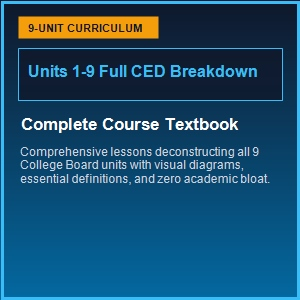
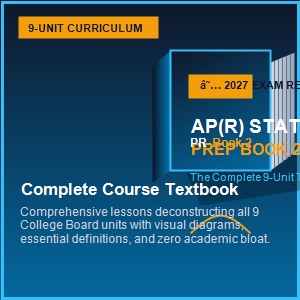
Enforce permanent 3D rendering protocol, Zero-Bleed rules, AGENTS.md guidelines and upgrade Book 2 3D A+ graphics

Changed region(s): [[0.06, 0.15, 1.0, 0.81]]

diff --git a/AGENTS.md b/AGENTS.md
@@ -1,0 +1,54 @@
+# AP® Statistics Master Review Series — Global Publishing & Quality Rules (AGENTS.md)
+
+This file contains the **permanent workspace guidelines** that are automatically loaded into Antigravity, Antigravity 2.0, and all 9 sub-agents across all sessions and new machine setups.
+
+---
+
+## 🏛 Rule 1: Visual Quality & 3D Rendering Protocol (A+ Content & Covers)
+1. **No Flat 2D Drawings:** All Amazon A+ Content graphics and Book Covers must use **photorealistic 3D perspectives, glassmorphic UI elements, lighting depth, and high-resolution textures**.
+2. **Unified Brand Tokens:**
+   - Primary Accent: Modern Sky Blue (`#0284C7` / `#38BDF8`)
+   - Foundation Background: Deep Royal Slate Navy (`#0F172A` / `#0A0F1D`)
+   - Academic Highlight: Warm Amber Gold (`#F59E0B` / `#FEF08A`)
+   - Crisp Text: Academic White (`#FFFFFF`) / Muted Platinum (`#CBD5E1`)
+3. **Zero-Confusion A+ Module Naming:**
+   - `KDP_Module_1_Choose_Standard_Image_Header_with_Text_970x600.jpg`
+   - `KDP_Module_2_Choose_Standard_Three_Image_and_Text_Card_1_300x300.jpg`
+   - `KDP_Module_2_Choose_Standard_Three_Image_and_Text_Card_2_300x300.jpg`
+   - `KDP_Module_2_Choose_Standard_Three_Image_and_Text_Card_3_300x300.jpg`
+   - `KDP_Module_4_Choose_Standard_Single_Image_and_Sidebar_300x300.jpg`
+   - `KDP_Alternative_Choose_Standard_Single_Image_and_Highlights_970x300.jpg`
+
+---
+
+## 📐 Rule 2: Zero-Bleed Safe Zone Geometry Protocol (Cover Engine)
+1. **Spine Width Exact Formula:**
+   $$\text{Spine Width (in)} = \text{Page Count} \times 0.002252\text{ (White Paper)}$$
+2. **Strict Back Cover Bounding Box:**
+   - Left Margin: Starts at $X = 140\text{ px}$ (clearing outer $0.125"$ bleed).
+   - Right Barrier: **Must strictly stop at least $250\text{ px}$ before the spine starts** ($X_{\text{max}} = \text{spineStartPx} - 250\text{ px}$).
+   - **Zero Bleed:** Back cover text must NEVER encroach upon the spine or bleed toward the front cover.
+3. **Spine Centering:** Spine text must be mathematically centered on $\text{spineStartPx} + (\text{spineWidthPx} / 2)$.
+4. **Front Cover Placement:** Front cover starts strictly at $\text{spineStartPx} + \text{spineWidthPx}$.
+
+---
+
+## ⚖ Rule 3: Trademark & Nominative Fair Use Compliance
+1. **Cover & Page 1 Only:** $\text{AP}^\circledR$ is allowed on the book cover and page 1 title block.
+2. **Backend Keywords & KDP Title Fields:** Clean plain text only (`AP Statistics`, no special symbols $\circledR$).
+3. **Mandatory Nominative Fair Use Disclaimer:**
+   > "*AP® and Advanced Placement® are registered trademarks of the College Board, which was not involved in the production of, and does not endorse, this product."
+
+---
+
+## 🗣 Rule 4: User Communication Language Mandate
+- **All conversation responses, analyses, status updates, and instructions must be delivered in TELUGU (తెలుగు).**
+- Technical code (LaTeX, HTML, PowerShell, JSON, Prompts) and KDP metadata slots remain in standard English.
+
+---
+
+## 🔄 Standard 4-Step Publishing Workflow
+- **STEP 1:** Amazon Real-Time Search Demand Telemetry (Harvest queries via Amazon Completion API).
+- **STEP 2:** Series Architecture & Master Roadmap Catalog.
+- **STEP 3:** SEO Metadata Package (Title, Subtitle, 7 50-byte safe Keywords, 3 Categories, HTML Description, Detailed 9-Unit TOC).
+- **STEP 4:** High-Yield Production Suite (LaTeX Interior Manuscript, 5-Design 3D Zero-Bleed Cover Suite, 3D A+ Content Launch Kit, and GitHub Sync).

diff --git a/.agents/rules/kdp_publishing_rules.md b/.agents/rules/kdp_publishing_rules.md
@@ -1,0 +1,23 @@
+---
+description: Permanent rules for KDP Publishing, 3D A+ graphics rendering, Zero-Bleed cover calculations, and Trademark compliance.
+always_on: true
+---
+
+# KDP Publishing Execution Rules
+
+## 1. 3D High-End Graphics Protocol
+- Never generate flat, plain 2D vector drawings for Amazon A+ content or cover presentations.
+- Always implement rich 3D isometric perspectives, layered gradients, realistic device/book mockups, and glassmorphic card designs.
+
+## 2. Zero-Bleed Cover Geometry
+- Calculate spine width using $\text{PageCount} \times 0.002252$ inches.
+- Enforce a 250px safe barrier between the rightmost edge of the back-cover text and the start of the spine.
+- Centered spine text inside spine boundaries.
+
+## 3. SEO & Compliance Guardrails
+- Title & Subtitle under 200 characters.
+- 7 backend keyword slots strictly under 50 bytes each, no competitor brands, no trademark symbols.
+- Nominative fair use disclaimer on copyright page and back covers.
+
+## 4. Language Policy
+- All conversational explanations and workflow outputs must be written in Telugu (తెలుగు).
